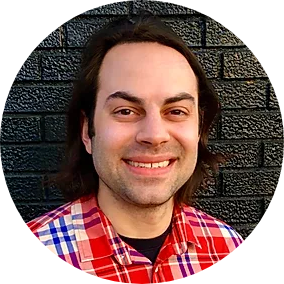
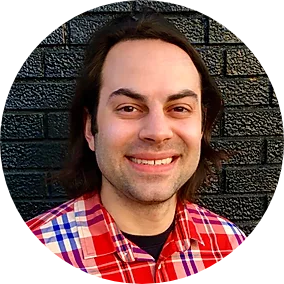
changed colors

diff --git a/index.html b/index.html
@@ -12,38 +12,39 @@
     <link rel="stylesheet" href="css/styles.css">
 </head>
 
-<body style="background: linear-gradient(#3b2685 6%, #04c4c7 12%);background-color: #04c4c7;color: #f2f5f8;">
+<body style="background: white;background-color:white;color:black;">
     <script>
         document.getElementById("herocraft").innerHTML = "Hello JavaScript!";
         </script>
+        
     <nav class="navbar navbar-light navbar-expand-md navigation-clean mb-5"
-        style="background-color: #3b2685;color: #ffe9e9;">
+        style="background-color: white;color: black;">
         <div class="container"><a class="navbar-brand" href="#">Andrew Smith // Web Developer</a><button
                 data-toggle="collapse" class="navbar-toggler" data-target="#navcol-1"><span class="sr-only"
                     style="color: white;">Toggle navigation</span><span class="navbar-toggler-icon"></span></button>
             <div class="collapse navbar-collapse" id="navcol-1" style="text-shadow: 0px 0px;">
                 <ul class="nav navbar-nav ml-auto">
                     <li class="nav-item" role="presentation"><a class="nav-link" href="#about"
-                            style="color: #ffe9e9;">About</a></li>
+                            style="color: black;">About</a></li>
                     <li class="nav-item" role="presentation"><a class="nav-link" href="#portfolio"
-                            style="color: #ffe9e9;">Portfolio</a></li>
+                            style="color: black;">Portfolio</a></li>
                     <li class="nav-item" role="presentation"><a class="nav-link" href="#contact"
-                            style="color: #ffe9e9;">Contact</a></li>
+                            style="color: black;">Contact</a></li>
                 </ul>
             </div>
         </div>
     </nav>
     <header>
-        <div class="container" style="padding: 0px 0px 0px 0px;"><img class="img-fluid d-block mx-auto mb-5"
-                style="background: url(img/circle-cropped.png);background-size: contain;width: 200px;height: 200px;">
-            <h1 style="text-align: center;border-color: #f2f5f8;color: #f2f5f8;">Andrew Smith</h1>
+        <div class="container" style="padding: 0px 0px 0px 0px;"><img id="portraitpic" class="img-fluid d-block mx-auto mb-5"
+                style="background: url(img/square.png);background-size: contain;width: 200px;height: 200px;border-radius:50%">
+            <h1 style="text-align: center;border-color: #f2f5f8;color: black;">Andrew Smith</h1>
 
-            <h1 style="text-align: center;margin: 30px;color: #f2f5f8;">Web Developer - Full Stack</h1>
+            <h1 style="text-align: center;margin: 30px;color: black;">Full Stack Web Developer</h1>
         </div>
     </header>
-                <hr style="border-color: #3b2685;">
+                <hr style="border-color: black; width: 75%">
     <section id="portfolio" class="portfolio"
-        style="background: linear-gradient(#04c4c7 6%, white 100%);background-color: #ffe9e9;">
+        style="background: white;background-color: white;">
         <div class="container" style="margin: auto;padding: 0px;">
             <h2 id="portfolio" class="text-center mt-5" style="margin: 15px;margin-top: 0px;padding: 10px;">Portfolio
             </h2>
@@ -103,7 +104,7 @@
                     </div>
             </div>
             <div class="row justify-content-center">
-                <div class="ortfolio-column col-12 col-md-6 col-lg-4 col-sm-12 justify-content-center portfolioboxes">
+                <div class="portfolio-column col-12 col-md-6 col-lg-4 col-sm-12 justify-content-center portfolioboxes">
                     
                     <!-- <img class="img-fluid"
                         src="img/rtpic.png" border-color: rgb(15,110,204);"> -->
@@ -125,7 +126,7 @@
                         <a href="https://vast-shore-64434.herokuapp.com/" target="_blank">
                             
                             <img class="portfolioimg" src="./img/notetpic.png" />
-                            <p class="portfolio-text text-center position-relative">Note Taker</p>
+                            <p class="portfolio-text text-center position-relative">NoteTaker</p>
                         </a>
                         <a class="githublink text-center " href="https://github.com/AndrewCodesDontYaKnow/Note_TakerV2">Github Repo</a>
                         <p class="projectDescription"><strong>Description:</strong> A simple note taking app to help users stay organized, make lists, or remember important things.</p>
@@ -134,33 +135,42 @@
             </div>
         </div>
     </section>
-    <section style="padding-top: 72px;background: linear-gradient(#ffffff 11%, #3b2685 36%);">
-        <div class="row">
+    <section style="padding-top: 0px;background: white;">
+        <!-- <div class="row">
             <div class="col" style="margin-bottom: 67px;">
                 <p></p>
             </div>
-        </div>
+        </div> -->
+        
         <div class="container">
-            <h2 id="about" style="text-align: center;padding: 10px;padding-bottom: -10px;">About</h2>
+            <h2 id="about" style="text-align: center;padding: 10px;">About</h2>
             <!-- <hr> -->
             <div class="row">
                 <div class="col">
-                    <p>Front-end web developer leveraging a client-interfacing sound design background to build a more intuitive user experience on the web. Recently earned a certificate in full stack web development from Trilogy Bootcamp at the University of Minnesota, with newly developed skills including JavaScript, the MERN stack, SQL, and more. A proactive communicator seeking clarity in all things, with infectious optimism who stays calm under pressure. 
-                        <br/><br/>
-                        Known by peers as a creative problem solver, I’m passionate about learning and honing new skills to apply in development. With each project, my aim is to create an impactful experience through user-centric functionality and features. Recently I applied aspects of UX, database structure, and API routing to a MERN stack project. I worked on a team of four to develop a robust app that helps Dungeons & Dragons players create, store, and edit game characters, viewable on a dynamic character sheet. I’m excited to leverage my skills as part of a highly-communicative, quality-driven team to build better experiences on the web. </p>
+                    <p>Hello World! I'm a Full Stack Web Developer leveraging background in sound design and life-long dedication to learning. A University of Minnesota School of continuing studies grad, I have a robust set of skills that range from UI to database maintenance. I'm well-versed in thinking outside the box, and providing novel solutions to problems in developing applications that give users a responsive, discoverable environment. I stay focused on providing reasons for users to return.
+                    </p>
+                  
+                    <p>
+                        I'm a proactive communicator seeking clarity in all things, with infectious optimism that keeps the group attitude positive. Known as a creative problem solver, I’m passionate about learning and honing new skills to add to my arsenal, and make new things with. I’m excited to leverage my skills as part of a highly-communicative, quality-driven team to build better experiences on the web. 
+
+                        When I'm not coding, I enjoy cooking and baking bread, training for and running marathons, and playing music.
+                    </p>
+
+
+                        <div data-iframe-width="150" data-iframe-height="270" data-share-badge-id="8707e096-7fef-4396-a4e8-38e93952710f" data-share-badge-host="https://www.youracclaim.com"></div><script type="text/javascript" async src="//cdn.youracclaim.com/assets/utilities/embed.js"></script>
                 </div>
 
             </div>
-            <div style="text-align: center;border-width: 1px;border-color: rgb(8,112,215);"></div>
+            <div style="text-align: center;border-width: 1px;border-color:black;"></div>
         </div>
     </section>
-    <section style="background: linear-gradient(#3b2685 9%, white 85%);background-color: #ffe9e9;">
+    <section style="background: white;background-color:white;">
         <div class="container">
             <h2 id="contact" style="text-align: center;padding: 10px;">Resume</h2>
 
             <div class="row">
                 <div class="col">
-                    <a id="resumelink" class="purpleBox m-auto" href="https://drive.google.com/file/d/1PlUrU4AwaDKnfD9nhblfA9Y8aW0FGFX9/view?usp=sharing">View PDF Here</a>
+                    <a id="resumelink" class="m-auto" href="https://drive.google.com/file/d/1PlUrU4AwaDKnfD9nhblfA9Y8aW0FGFX9/view?usp=sharing">View Resume PDF</a>
                 </div>
             </div>
         </div>
@@ -169,7 +179,7 @@
 
             <div class="row">
                 <div class="col">
-                    <p class="purpleBox"><strong>Email:</strong> andrewsmith593@gmail.com<br/><strong>Phone:</strong> (952)-451-7766</p>
+                    <p class=""><strong>Email:</strong> andrewsmith593@gmail.com<br/><strong>Phone:</strong> (952)-451-7766</p>
                 </div>
             </div>
         </div>
@@ -179,7 +189,7 @@
             </div>
         </div>
     </section>
-    <footer style="background: linear-gradient(#ffffff 16%, #30c4c7 27%);">
+    <footer style="background: white;">
         <div class="container">
             <div class="row justify-content-center"
                 style="padding: 10px;text-align: left;padding-top: 55px;padding-bottom: -13px;">
@@ -192,10 +202,10 @@
                     <p>Minneapolis, Minnesota</p>
                     <ul class="list-inline">
                         <li class="list-inline-item"><a
-                            class="btn btn-outline-light btn-social text-center rounded-circle" role="button"
+                            class="btn btn-outline-dark btn-social text-center rounded-circle" role="button"
                             href="https://www.linkedin.com/in/andrew-smith-6981b32b/"><i class="fa fa-linkedin fa-fw"></i></a></li>
                         <li class="list-inline-item"><a
-                                class="btn btn-outline-light btn-social text-center rounded-circle" role="button"
+                                class="btn btn-outline-dark btn-social text-center rounded-circle" role="button"
                                 href="https://www.facebook.com/andrewsmithmusic"><i class="fa fa-facebook fa-fw"></i></a></li>
                     </ul>
                 </div>
@@ -203,11 +213,11 @@
         </div>
     </footer>
     <div class="justify-content-center copyright py-4 text-center text-white"
-        style="background: linear-gradient(#30c4c7 20%, #3b2685 42%);background-color: #3b2685;padding-top: 16px;">
-        <div class="container" style="background-color: rgba(59,38,133,0);margin: 0px;"><small>Copyright ©&nbsp;Andrew
+        style="background: white;background-color: black;padding-top: 16px;">
+        <div class="container" style="background-color: rgba(59,38,133,0);"><small>Copyright ©&nbsp;Andrew
                 Smith // Web Developer 2020</small></div>
     </div>
-
+    
     <script src="js/jquery.min.js"></script>
     <script src="bootstrap/js/bootstrap.min.js"></script>
     <script src="js/bs-init.js"></script>

diff --git a/css/Navigation-Clean.css b/css/Navigation-Clean.css
@@ -45,7 +45,7 @@
 }
 
 .navigation-clean.navbar-dark .navbar-toggler {
-  border-color: #555;
+  border-color: #555;   
 }
 
 .navigation-clean .navbar-toggler {
@@ -86,7 +86,7 @@
 }
 
 .navigation-clean.navbar-light .navbar-nav .nav-link:focus, .navigation-clean.navbar-light .navbar-nav .nav-link:hover {
-  color: #04c4c7 !important;
+  /* color: #04c4c7 !important; */
   background-color: transparent;
 }
 
@@ -94,7 +94,7 @@
   margin-top: -5px;
   box-shadow: none;
   background-color: #fff;
-  border-radius: 2px;
+  /* border-radius: 2px; */
 }
 
 @media (min-width:768px) {

diff --git a/css/styles.css b/css/styles.css
@@ -18,7 +18,7 @@
 
 .portfolio-text {
     color: white;
-    background-color: #3b2685;
+    background-color: black;
     border-radius: 18px;
     width: 250px;
     padding: 5px 0px;
@@ -28,13 +28,14 @@
     
 }
 
+
 .portfolioimg {
     /* position: relative; */
     width: 100%;
 }
 
 .githublink {
-    background-color: #04c4c7;
+    background-color: black;
     color: white;
     border-radius: 18px;
     padding: 5px;
@@ -74,7 +75,7 @@
 }
 
 .projectDescription {
-    color: #3b2685;
+    color: black;
     position: relative;
     bottom: 65px;
     left: 5px;
